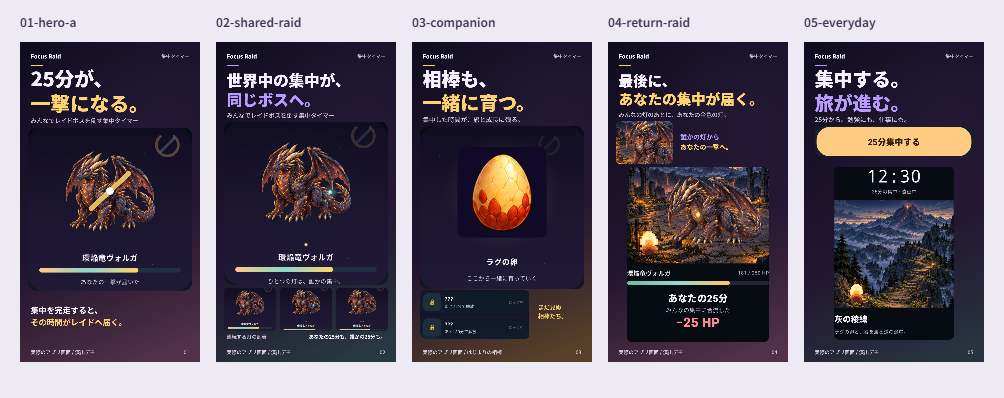
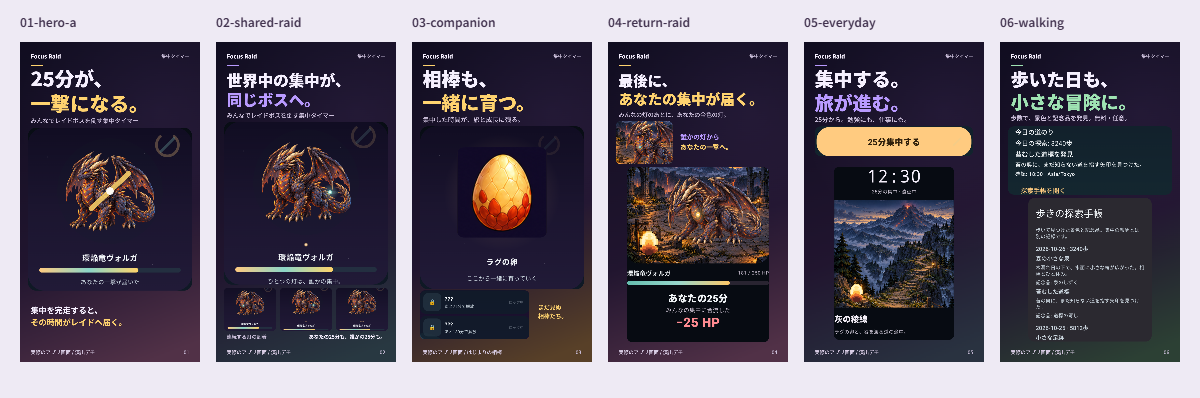
feat: add walking screenshot, ja/en listing copy and publish blockers
- Capture the Walking Expedition home card and notebook (8th opt-in
  capture test) and compose 06-walking. Fixed Tokyo diary zone and check
  time; suppress Android's full-screen hint during captures.
- Add full ja-JP description and en-US listing copy. Pro lists only the
  implemented Star Route, detailed stats and full history; the English
  copy states the UI is Japanese-only.
- Verify title/short/full lengths for both locales.
- Record store follow-ups and current publish blockers in the release
  checklist: not releasable until the real-device check passes.

diff --git a/app/src/androidTest/java/com/madowaku/focusraid/ui/StoreCaptureTest.kt b/app/src/androidTest/java/com/madowaku/focusraid/ui/StoreCaptureTest.kt
@@ -13,6 +13,7 @@ import androidx.compose.ui.test.onNodeWithTag
 import androidx.compose.ui.test.onNodeWithText
 import androidx.compose.ui.test.onRoot
 import androidx.compose.ui.test.performClick
+import androidx.compose.ui.test.performScrollTo
 import androidx.test.platform.app.InstrumentationRegistry
 import com.madowaku.focusraid.StoreCaptureActivity
 import com.madowaku.focusraid.billing.AccessLevel
@@ -51,18 +52,23 @@ class StoreCaptureTest {
         world = WorldSnapshot(bossName = "環焔竜ヴォルガ", bossHp = 181, bossMaxHp = 250),
     )
 
-    // Today's demo walk: 3,240 steps reached the first two checkpoints. Device-local only.
+    // Three demo days of walking; checkpoints are the 1,000 / 3,000 / 5,000-step thresholds. Device-local only.
     private val walking: WalkingActions = run {
-        val zone = ZoneId.systemDefault()
-        val now = Instant.now()
-        val today = now.atZone(zone).toLocalDate()
+        // Fixed diary zone and check time keep the capture independent of the emulator's clock settings.
+        val zone = ZoneId.of("Asia/Tokyo")
+        val today = Instant.now().atZone(zone).toLocalDate()
+        val now = today.atTime(18, 30).atZone(zone).toInstant()
         WalkingActions(
             state = WalkingUiState(
                 journal = WalkingJournal(
                     enabled = true,
                     firstDay = today.minusDays(2),
                     zone = zone.id,
-                    days = mapOf(today to WalkingDay(steps = 3_240, checkpoints = setOf(1_000, 3_000))),
+                    days = mapOf(
+                        today to WalkingDay(steps = 3_240, checkpoints = setOf(1_000, 3_000)),
+                        today.minusDays(1) to WalkingDay(steps = 5_812, checkpoints = setOf(1_000, 3_000, 5_000)),
+                        today.minusDays(2) to WalkingDay(steps = 1_450, checkpoints = setOf(1_000)),
+                    ),
                 ),
                 status = WalkingStatus.READY,
                 checkedAt = now,
@@ -182,6 +188,23 @@ class StoreCaptureTest {
         compose.mainClock.advanceTimeBy(500)
         compose.onNodeWithText("今日の探索", substring = true).assertExists()
         save("home")
+    }
+
+    /** Walking Expedition: the home card scrolled into view, then the notebook dialog. */
+    @Test fun walking() {
+        content { app(fixture) }
+        compose.mainClock.advanceTimeBy(500)
+        // Scrolling waits for idle; with a paused clock that never arrives.
+        compose.mainClock.autoAdvance = true
+        // Scroll to the card's last control so the whole card is on screen.
+        compose.onNodeWithText("探索手帳を開く").performScrollTo()
+        compose.waitForIdle()
+        compose.onNodeWithText("今日の探索: 3240歩").assertIsDisplayed()
+        save("walking-home")
+        compose.onNodeWithText("探索手帳を開く").performClick()
+        compose.waitForIdle()
+        compose.onNodeWithText("歩きの探索手帳", substring = false).assertExists()
+        save("walking-notebook")
     }
 
     /** 深層 + ラグ focusing is the Pixel Expedition destination screen in production (FocusRaidV10Root). */

diff --git a/store/google-play/v1.0/creative.js b/store/google-play/v1.0/creative.js
@@ -130,6 +130,16 @@ function everyday() {
   footer(ctx, '05');
 }
 
+function walking() {
+  const ctx = canvas('06-walking'); background(ctx, '#2c4034');
+  header(ctx, ['歩いた日も、', '小さな冒険に。'], 108, '#9fe3b3');
+  text(ctx, '歩数で、景色と記念品を発見。無料・任意。', 64, 470, 36, PALETTE.muted, 500);
+  // Real home card and notebook; steps are a local demo fixture, never sent off the device.
+  crop(ctx, 'walking-home', [0, 1680, 1080, 450], [48, 506, 984, 410], 36);
+  crop(ctx, 'walking-notebook', [76, 326, 928, 1080], [170, 936, 740, 861.21], 36);
+  footer(ctx, '06');
+}
+
 function feature() {
   const ctx = canvas('feature-graphic-1024x500', 1024, 500); background(ctx, '#593d30');
   // Native FIRST RUN crop. Text remains outside the captured UI.
@@ -232,17 +242,17 @@ async function run() {
   try { await face.load(); } catch { throw new Error('Install Noto Sans JP before exporting.'); }
   document.fonts.add(face);
   await document.fonts.load(`900 110px ${font}`, '25分が、一撃になる。');
-  const names = ['first-run-strike', 'shared-left', 'shared-right', 'shared-bottom', 'shared-arrived', 'companion-egg', 'companion-locks', 'return-other', 'return-self', 'home', 'focusing'];
+  const names = ['first-run-strike', 'shared-left', 'shared-right', 'shared-bottom', 'shared-arrived', 'companion-egg', 'companion-locks', 'return-other', 'return-self', 'home', 'focusing', 'walking-home', 'walking-notebook'];
   await Promise.all([...names.map(name => [name, `raw/${name}.png`]), ['launcher', `${ROOT}/app/src/main/res/drawable-nodpi/ic_launcher_foreground.png`], ['monochrome', `${ROOT}/app/src/main/res/drawable-nodpi/ic_launcher_monochrome.png`], ['arena', `${ROOT}/app/src/main/res/drawable-nodpi/world_arena_v13.png`]].map(async ([name, path]) => {
     const image = new Image(); image.src = path; await image.decode(); pictures[name] = image;
   }));
-  heroA(); shared('01-hero-b', '01'); shared('02-shared-raid', '02'); companion(); reward(); everyday(); feature(); featureEn(); icons();
-  contact('sequence-180', ['01-hero-a', '02-shared-raid', '03-companion', '04-return-raid', '05-everyday'], 180);
+  heroA(); shared('01-hero-b', '01'); shared('02-shared-raid', '02'); companion(); reward(); everyday(); walking(); feature(); featureEn(); icons();
+  contact('sequence-180', ['01-hero-a', '02-shared-raid', '03-companion', '04-return-raid', '05-everyday', '06-walking'], 180);
   contact('hero-ab-360', ['01-hero-a', '01-hero-b'], 360);
   window.storeEvidence = evidence;
   if (evidence.errors.length) throw new Error(`Text outside canvas: ${JSON.stringify(evidence.errors)}`);
   window.storeReady = true;
-  document.querySelector('#status').textContent = '描画完了 · 5枚＋A/B案、横長グラフィック、アイコン、縮小レビュー';
+  document.querySelector('#status').textContent = '描画完了 · 6枚＋A/B案、横長グラフィック、アイコン、縮小レビュー';
 }
 
 document.querySelector('#compact').onclick = () => document.querySelector('#assets').classList.toggle('compact');

diff --git a/scripts/verify-store.py b/scripts/verify-store.py
@@ -7,7 +7,7 @@ from PIL import Image
 
 ROOT = Path(__file__).resolve().parents[1]
 STORE = ROOT / 'store/google-play/v1.0'
-SHOTS = ['01-hero-a', '01-hero-b', '02-shared-raid', '03-companion', '04-return-raid', '05-everyday']
+SHOTS = ['01-hero-a', '01-hero-b', '02-shared-raid', '03-companion', '04-return-raid', '05-everyday', '06-walking']
 
 
 def digest(path):
@@ -43,13 +43,21 @@ def main():
     records.append({'file': 'en-US/feature-graphic-1024x500.png', 'width': 1024, 'height': 500, 'mode': 'RGB', 'bytes': en_feature.stat().st_size, 'sha256': digest(en_feature)})
 
     copy = json.loads((STORE / 'listing-copy.json').read_text(encoding='utf-8'))
-    for item in copy['shortDescriptions']:
-        if not 1 <= len(item['text']) <= 80 or '\n' in item['text']:
-            errors.append(f'Short description {item["id"]} violates 80-character/single-line limit')
+    copy_en = json.loads((STORE / 'listing-copy.en-US.json').read_text(encoding='utf-8'))
     assert len(copy['shortDescriptions']) == len(copy['longDescriptionOpenings']) == 3
-    for item in copy['assets']:
-        if len(item['alt']) > 140:
-            errors.append(f'Alt text too long: {item["id"]}')
+    # Play limits: title 30, short description 80, full description 4000 characters.
+    for listing in (copy, copy_en):
+        locale = listing['locale']
+        if not 1 <= len(listing['title']) <= 30:
+            errors.append(f'{locale} title exceeds 30 characters')
+        if not 1 <= len(listing['fullDescription']) <= 4000:
+            errors.append(f'{locale} full description exceeds 4000 characters')
+        for item in listing['shortDescriptions']:
+            if not 1 <= len(item['text']) <= 80 or '\n' in item['text']:
+                errors.append(f'{locale} short description {item["id"]} violates 80-character/single-line limit')
+        for item in listing['assets']:
+            if len(item['alt']) > 140:
+                errors.append(f'{locale} alt text too long: {item["id"]}')
 
     evidence_path = STORE / 'review' / 'layout-evidence.json'
     if args.normalize:
@@ -80,7 +88,7 @@ def main():
     for source in sources:
         if capture['captures'].get(Path(source['file']).name) != source['sha256']:
             errors.append(f'Raw capture differs from provenance: {source["file"]}')
-    for path in ['creative.js', 'creative.html', 'listing-copy.json']:
+    for path in ['creative.js', 'creative.html', 'listing-copy.json', 'listing-copy.en-US.json']:
         sources.append({'file': path, 'sha256': digest(STORE / path)})
     for path in ['app/src/main/res/drawable-nodpi/ic_launcher_foreground.png', 'app/src/main/res/drawable-nodpi/ic_launcher_monochrome.png']:
         sources.append({'file': '../../../' + path, 'sha256': digest(ROOT / path)})
@@ -90,7 +98,8 @@ def main():
         'outputs': records,
         'sources': sources,
         'shortDescriptionCharacters': {item['id']: len(item['text']) for item in copy['shortDescriptions']},
-        'validation': ['PNG dimensions and color modes', '80-character descriptions and 140-character alt text', 'text bounds and overlaps', 'raw source hashes and dimensions'],
+        'shortDescriptionCharactersEnUS': {item['id']: len(item['text']) for item in copy_en['shortDescriptions']},
+        'validation': ['PNG dimensions and color modes', '30/80/4000-character title and descriptions (ja-JP, en-US) and 140-character alt text', 'text bounds and overlaps', 'raw source hashes and dimensions'],
         'pending': ['3–5 independent five-second reviews', 'Play Console and actual launcher mask/themed-icon review', 'release-candidate production shared-raid verification'],
         'errors': errors,
     }

diff --git a/store/google-play/v1.0/README.md b/store/google-play/v1.0/README.md
@@ -13,6 +13,7 @@ UIのピクセルは本番コンポーザブルの撮影のみ。画像生成で
 | 3 | [03-companion.png](ja-JP/03-companion.png) | 同上 |
 | 4 | [04-return-raid.png](ja-JP/04-return-raid.png) | 深層＋ラグの本番経路である **Pixel Return Raid**（火口の広場）に変更。HP帯の別クロップは削除し、一撃のフレームを大きく表示 |
 | 5 | [05-everyday.png](ja-JP/05-everyday.png) | 集中中を **Pixel Expedition**（灰の稜線・12:30）に変更。ホームCTAのクロップ位置を現行レイアウトに合わせた |
+| 6 | [06-walking.png](ja-JP/06-walking.png) | 新規。歩数探索のホームカードと探索手帳（実画面）。歩数は端末内のfixture |
 | 横長（日本語） | [feature-graphic-1024x500.png](ja-JP/feature-graphic-1024x500.png) | 撮り直しのみ |
 | 横長（英語） | [en-US/feature-graphic-1024x500.png](en-US/feature-graphic-1024x500.png) | 新規。背景はアプリ内の `world_arena_v13.png`、ボスはFIRST RUNの実画面クロップ |
 | Playアイコン | [icon-512.png](ja-JP/icon-512.png) | 変更なし |
@@ -23,8 +24,23 @@ UIのピクセルは本番コンポーザブルの撮影のみ。画像生成で
 
 - `raw/` は1080×2400（360×800dp・font scale 1）。撮影は `StoreCaptureTest`（opt-in、7ケース）。
 - 状態はローカルfixture：ボスHP 181/250、仲間の残響2つ（「演出デモ」・各25分）、自分の25分、累計0分の卵。
-- ホームには歩数探索のfixture（今日3,240歩・1,000/3,000歩の発見）を与えているが、カードは2400pxの画面外にあり、現在の素材には写っていない。
+- 歩数探索は3日分のfixture（3,240歩・5,812歩・1,450歩、1,000/3,000/5,000歩の発見）。日付区切りは `Asia/Tokyo`、確認時刻は18:30に固定。`walking` テストはホームを歩数カードまでスクロールし、探索手帳を開いて撮影する（8ケース目）。
+- 撮影ホストはシステムバーを隠すため、`capture-store.ps1` がエミュレーターの「全画面表示」の案内を確認済みに設定する。
 - `raw/capture-provenance.json` に製品コミット、撮影日時、テストソースと元画像のSHA-256を記録。
+
+## 説明文
+
+- [listing-copy.json](listing-copy.json)（ja-JP）と [listing-copy.en-US.json](listing-copy.en-US.json)（en-US）。短い説明3案、全文説明、各画像の代替テキストを収録。`verify-store.py` がPlayの上限（タイトル30・短い説明80・全文4000文字）を検証する。
+- Proとして書いているのは実装済みの3つだけ：星渡り航路、詳細統計、全期間の履歴（`ProPaywallDialog` と `FeatureAccess` に一致）。テーマやカスタマイズは未実装なので書いていない。
+- アプリのUIは日本語のみのため、英語の説明文の末尾にその旨を明記した。
+- 共有レイドの記述は `publicationGate` のとおり、本番の2端末検証が済むまで公開に使わない。
+
+## ライセンス
+
+- UIのピクセルはすべて本アプリの画面。アート（相棒・ボス・世界の背景）はプロジェクト用に生成した自作素材（出典は `docs/release-art.md`、`docs/v013-art-manifest.json` に記録）。画面内のVFXや絵文字はKenneyのCC0素材（`docs/licenses/kenney-focus-raid.txt`）。
+- 見出しの書体はNoto Sans JP（SIL Open Font License 1.1）。画像への描画は許可されており、フォントファイル自体はリポジトリに含めていない。
+- 撮影・描画スクリプトは本リポジトリのコード。Playwright CLI（Apache-2.0）はnpxで実行時に取得し、Pillow（MIT-CMU）はローカル環境のもので、どちらも同梱していない。
+- 第三者の画像、v0.9の旧スクリーンショット、一時ファイル（`output/`、`.playwright-cli/`）は含めていない。
 
 ## 再生成
 
@@ -42,6 +58,6 @@ python scripts/verify-store.py
 2. inset後のランチャーアイコンを実機のランチャー（円・角丸・themed icon、明暗の壁紙）で確認する。
 3. Play Consoleでの縮小・トリミングの確認と、同系色アプリとの識別性の確認。
 4. 本番の共有レイドを2端末で検証してから、世界の共有レイドをうたうコピーを公開する。
-5. 英語の短い説明・長い説明・スクリーンショットは未作成。英語版は今回feature graphicのみ。
+5. 英語のスクリーンショットは未作成。アプリのUIが日本語のみのため、英語の見出しを付けるかどうかを決める。
 
 画像のアップロードや公開はしていない。

diff --git a/docs/release-readiness.md b/docs/release-readiness.md
@@ -173,7 +173,12 @@ Before publishing store copy, screenshots, or the Shipaton demo:
 - [ ] Keep the core focus timer fully usable in Free.
 - [ ] Confirm all screenshots correspond to the release candidate UI.
 - [x] Replace companion/egg/boss placeholders with the adopted production atlas catalog.
-- [ ] Prepare final store screenshot crops using the adopted artwork.
+- [x] Prepare final store screenshot crops using the adopted artwork. Candidate set: [store/google-play/v1.0](../store/google-play/v1.0/README.md) (6 ja-JP screenshots incl. Walking Expedition, ja/en feature graphics, ja/en listing copy).
+- [ ] Re-capture the store set from the exact release-candidate commit (`scripts/capture-store.ps1`) if any UI changed after the candidate was rendered.
+- [ ] Choose hero A/B after 3–5 independent five-second reviews.
+- [ ] Check the 21% inset launcher icon on real launchers (circle, squircle, themed icon, light/dark wallpaper).
+- [ ] Decide on English screenshots. The app UI is Japanese-only; the English listing says so.
+- [ ] Use shared-raid wording in the listing only after the worldwide contribution check below passes.
 - [ ] Claim worldwide contribution is live only after deploying and verifying the v0.2 callable, rules and generation schema on production with two Play installations.
 - [ ] Keep Mord and Zephyr's personal challenges distinct from the shared Volga world raid.
 
@@ -190,6 +195,18 @@ For the 2026 submission:
 - [ ] Prepare the required app icon and screenshots.
 - [ ] Provide a practical judge path to unlock/test the paid experience.
 - [ ] Submit early enough to absorb Play review risk.
+
+## Current publish blockers (2026-10-26)
+
+Status: **release-ready development, not releasable.** Do not publish to Play or deploy production services until every item below is closed.
+
+- [ ] A401OP real-device check run and recorded (timer background completion, exact-alarm denied, READ_STEPS deny/re-grant, font scale 1.5). Procedure: `docs/device-check-a401op.md` (PR madowaku/focus-raid#27).
+- [ ] Play Console: app created, privacy policy URL, Data Safety, Health apps declaration, `READ_STEPS` permission declaration.
+- [ ] `focus_raid_pro_lifetime` created, attached to RevenueCat `pro`, license-tested purchase / cancel / restore.
+- [ ] Production Firebase: rules deployed, callable deployed, two-installation contribution verified.
+- [ ] Signed AAB with production keys and `FOCUS_RAID_PRIVACY_POLICY_URL`; `versionCode` above any build ever uploaded to Play.
+- [ ] Internal test track installed and smoke-tested; closed test started (personal accounts: 12 testers opted in for 14 consecutive days before production access).
+- [ ] Store listing: hero A/B decided, launcher icon checked on device, English screenshot decision.
 
 ## Release-candidate rule
 
